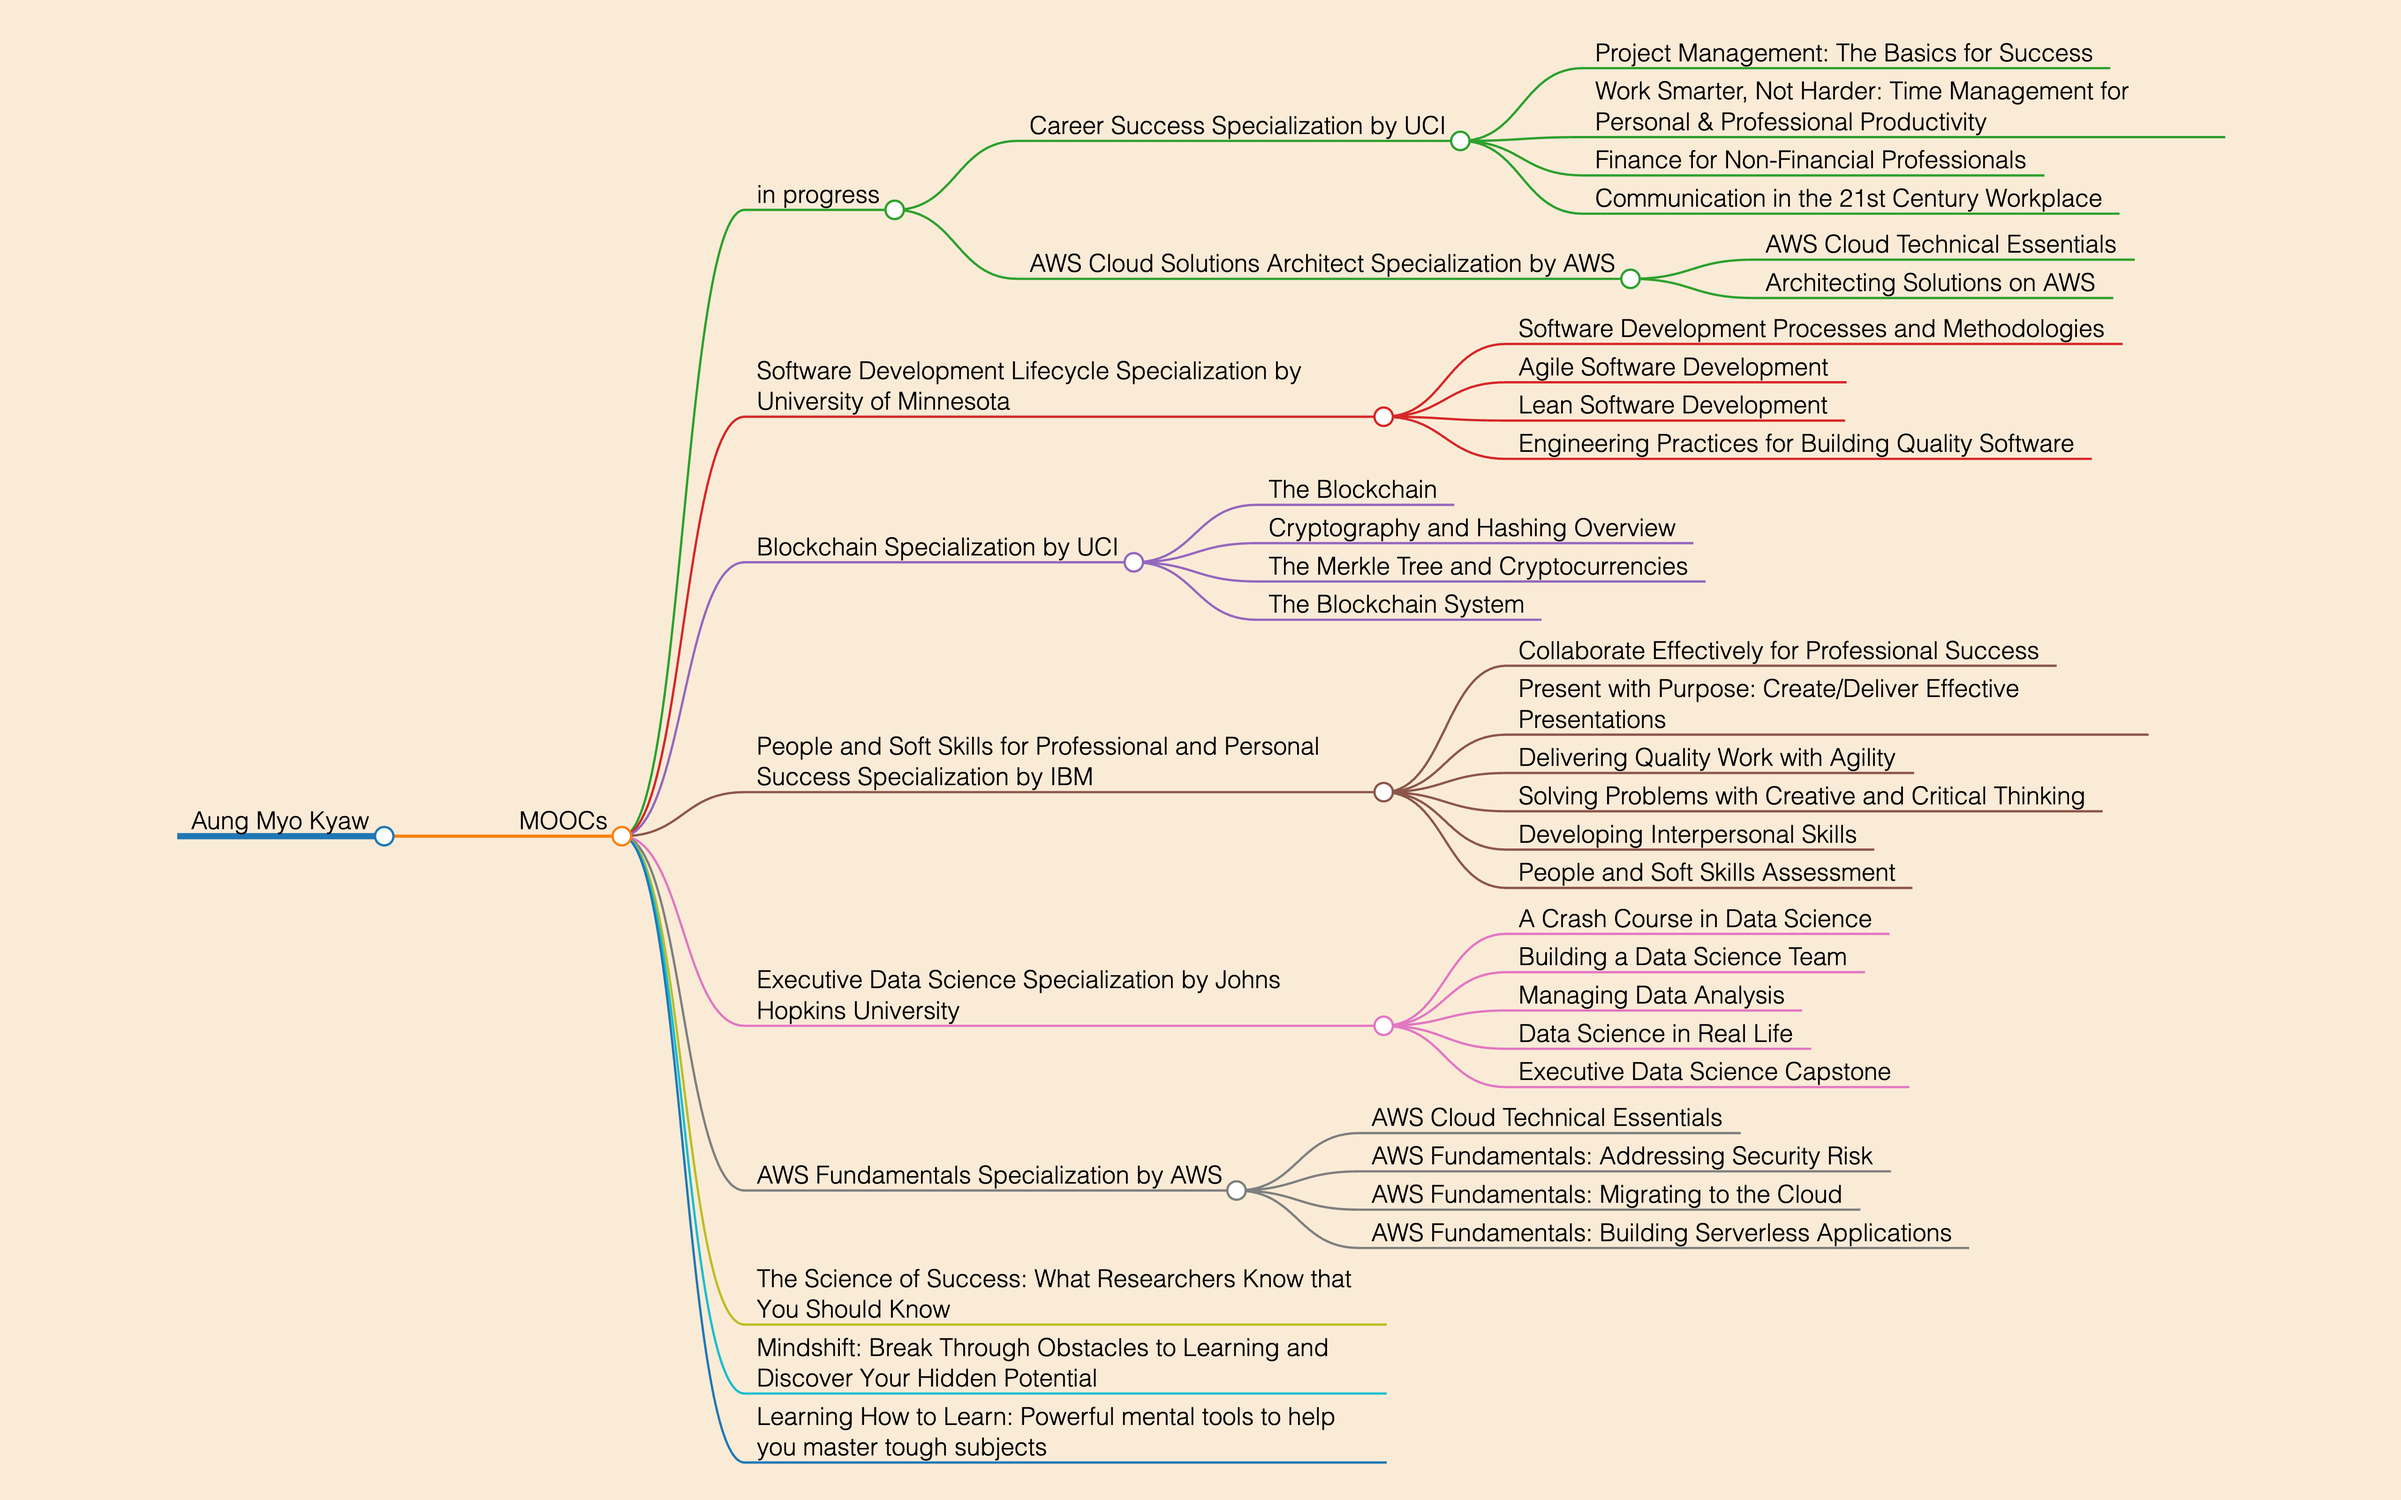
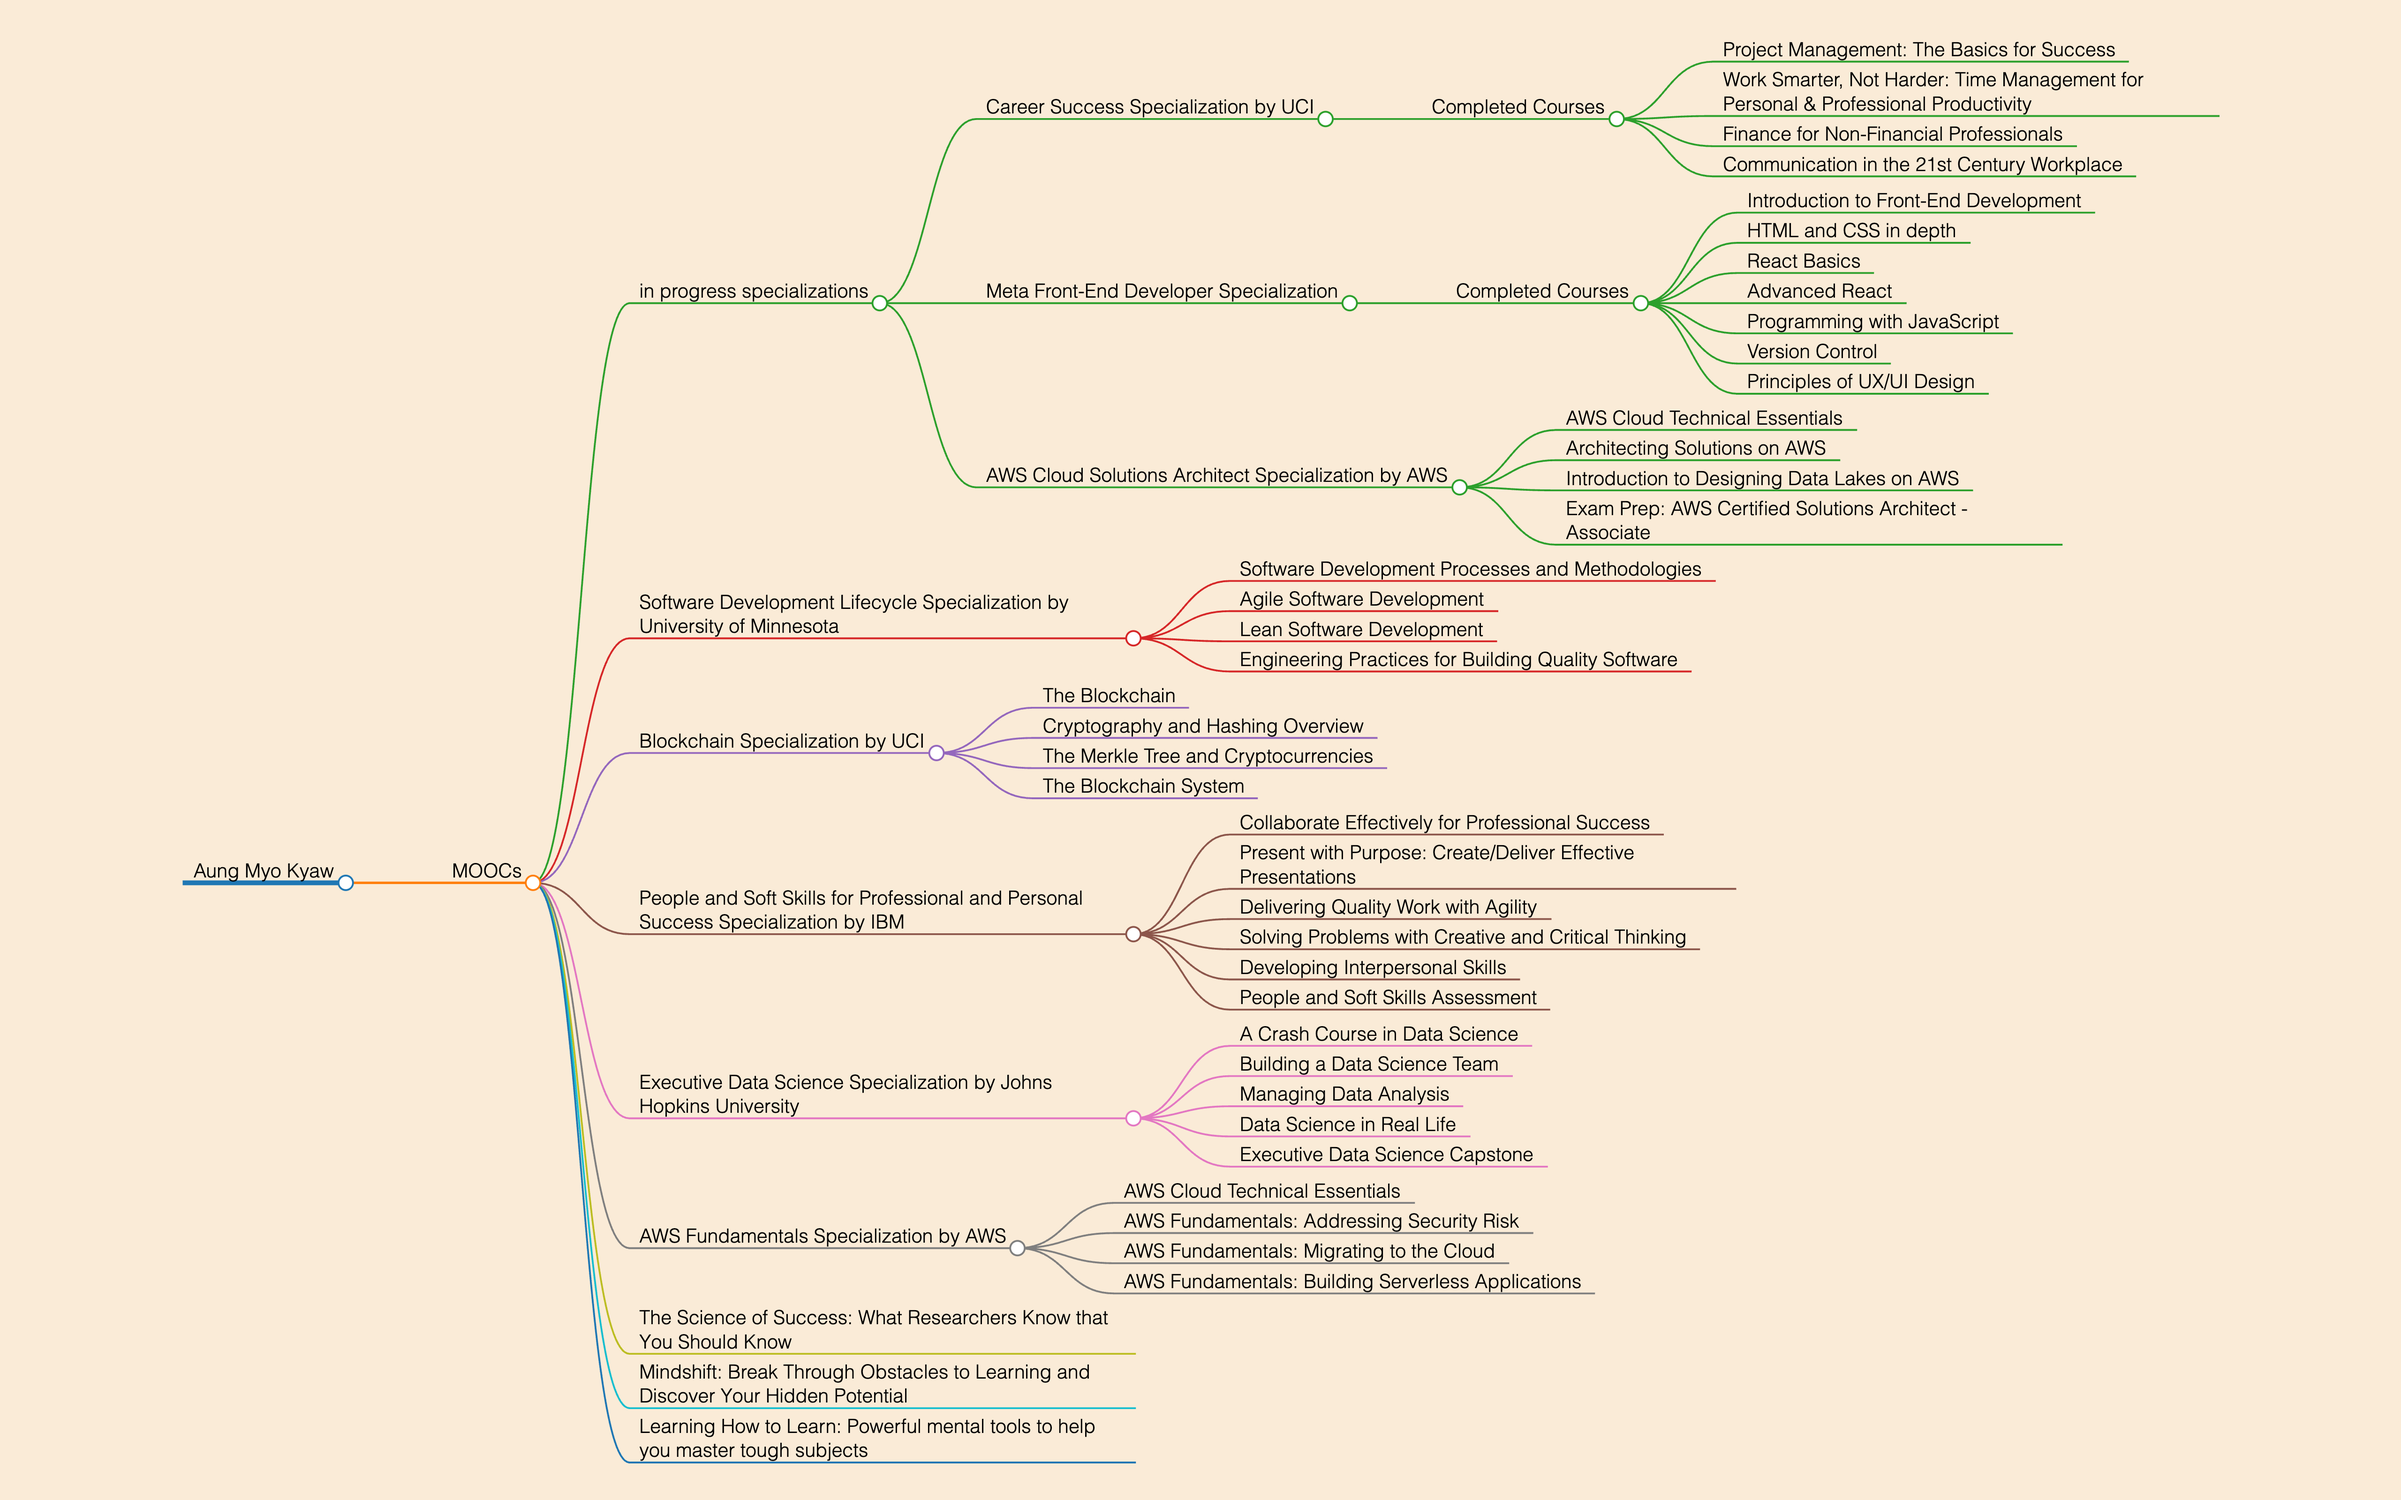
complete: AWS Cloud Solutions Architect Specialization

diff --git a/README.md b/README.md
@@ -19,19 +19,37 @@ markmap:
 
 ## [MOOCs](https://moocs.aungmyokyaw.com)
 
-### in progress
+### in progress specializations
 
 #### [Career Success Specialization by UCI](#)
+
+##### [Completed Courses](#)
 
 - [Project Management: The Basics for Success](https://www.coursera.org/account/accomplishments/certificate/PY65L84X3CC3)
 - [Work Smarter, Not Harder: Time Management for Personal & Professional Productivity](https://www.coursera.org/account/accomplishments/certificate/D5YLNXLRV47V)
 - [Finance for Non-Financial Professionals](https://www.coursera.org/account/accomplishments/certificate/M2NCWTW8HLZC)
 - [Communication in the 21st Century Workplace](https://www.coursera.org/account/accomplishments/certificate/XGHP5MKFDYVA)
 
-#### [AWS Cloud Solutions Architect Specialization by AWS](#)
+#### [Meta Front-End Developer Specialization](#)
+
+##### [Completed Courses](#)
+
+- [Introduction to Front-End Development](https://www.coursera.org/account/accomplishments/certificate/3ZXBQMYRVE4J)
+- [HTML and CSS in depth](https://www.coursera.org/account/accomplishments/certificate/UZ8E4TBRTN7M)
+- [React Basics](https://www.coursera.org/account/accomplishments/certificate/CTXJVSP4WNPP)
+- [Advanced React](https://www.coursera.org/account/accomplishments/certificate/G9CCMJEK4RRJ)
+- [Programming with JavaScript](https://www.coursera.org/account/accomplishments/certificate/99AV9256857Z)
+- [Version Control](https://www.coursera.org/account/accomplishments/certificate/ZGLGS7UQPMVE)
+- [Principles of UX/UI Design](https://www.coursera.org/account/accomplishments/certificate/UUS2L4B8RPT3)
+
+---
+
+#### [AWS Cloud Solutions Architect Specialization by AWS](https://www.coursera.org/account/accomplishments/specialization/certificate/NGP2326FQRPB)
 
 - [AWS Cloud Technical Essentials](https://www.coursera.org/account/accomplishments/certificate/68M99ZNUD4WE)
 - [Architecting Solutions on AWS](https://www.coursera.org/account/accomplishments/certificate/BLYG7X4MNKXQ)
+- [Introduction to Designing Data Lakes on AWS](https://www.coursera.org/account/accomplishments/certificate/FTB775T8ZU8D)
+- [Exam Prep: AWS Certified Solutions Architect - Associate](https://www.coursera.org/account/accomplishments/certificate/83LV6G6VPGPH)
 
 ### [Software Development Lifecycle Specialization by University of Minnesota](https://www.coursera.org/account/accomplishments/specialization/certificate/H2UZFJYXWN7W)
 
